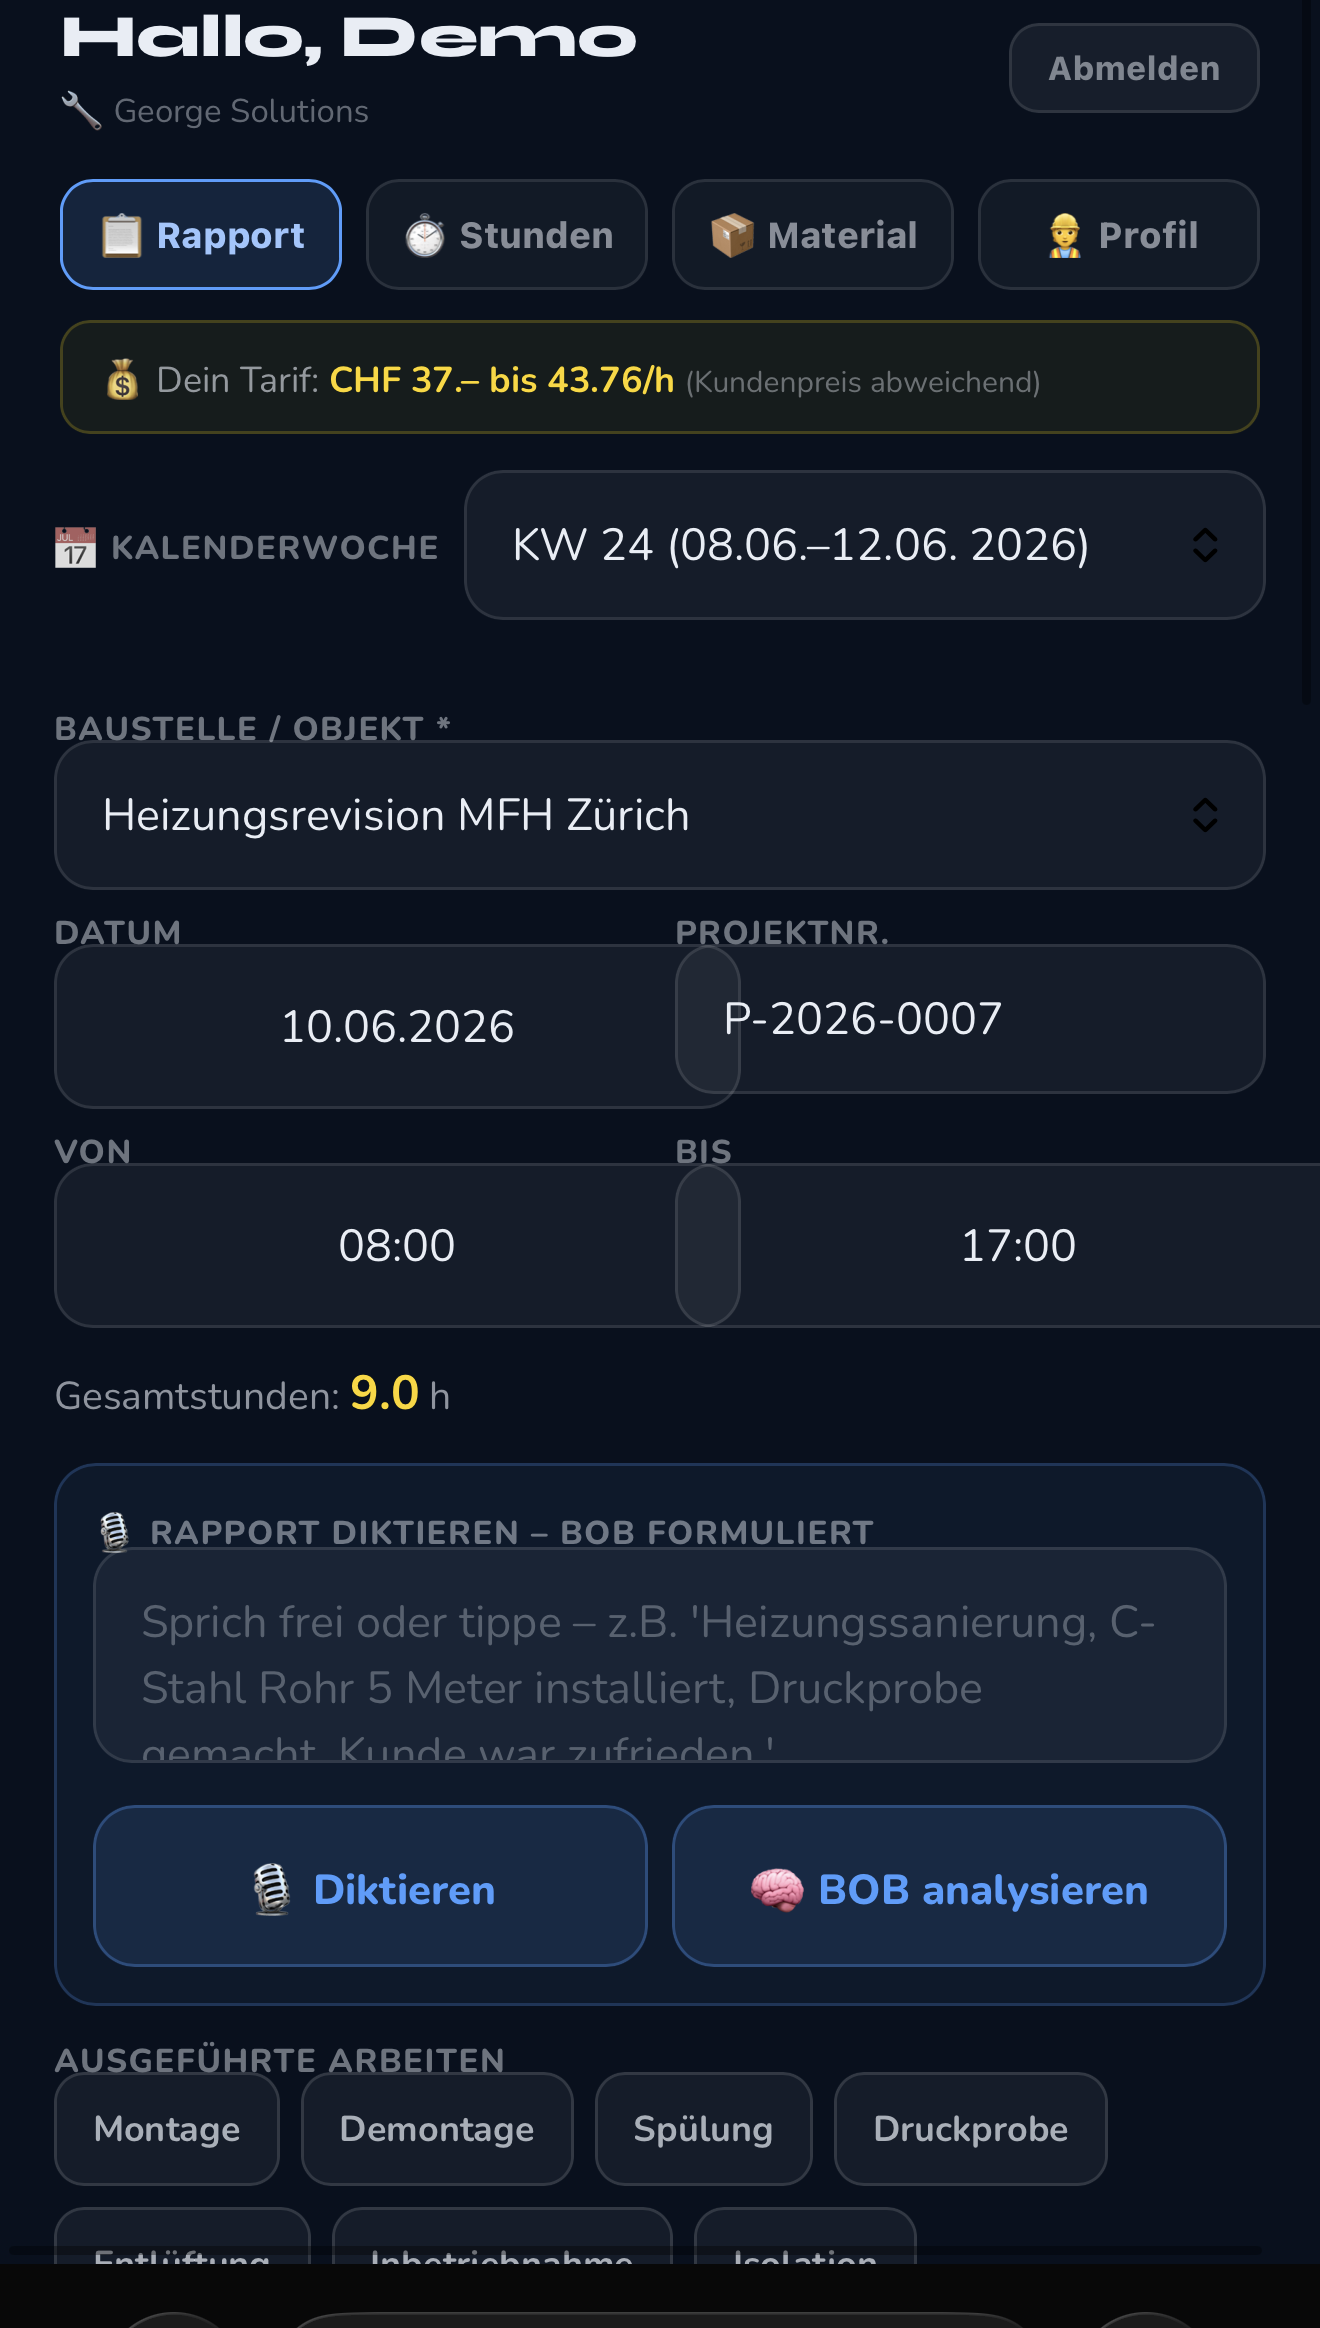
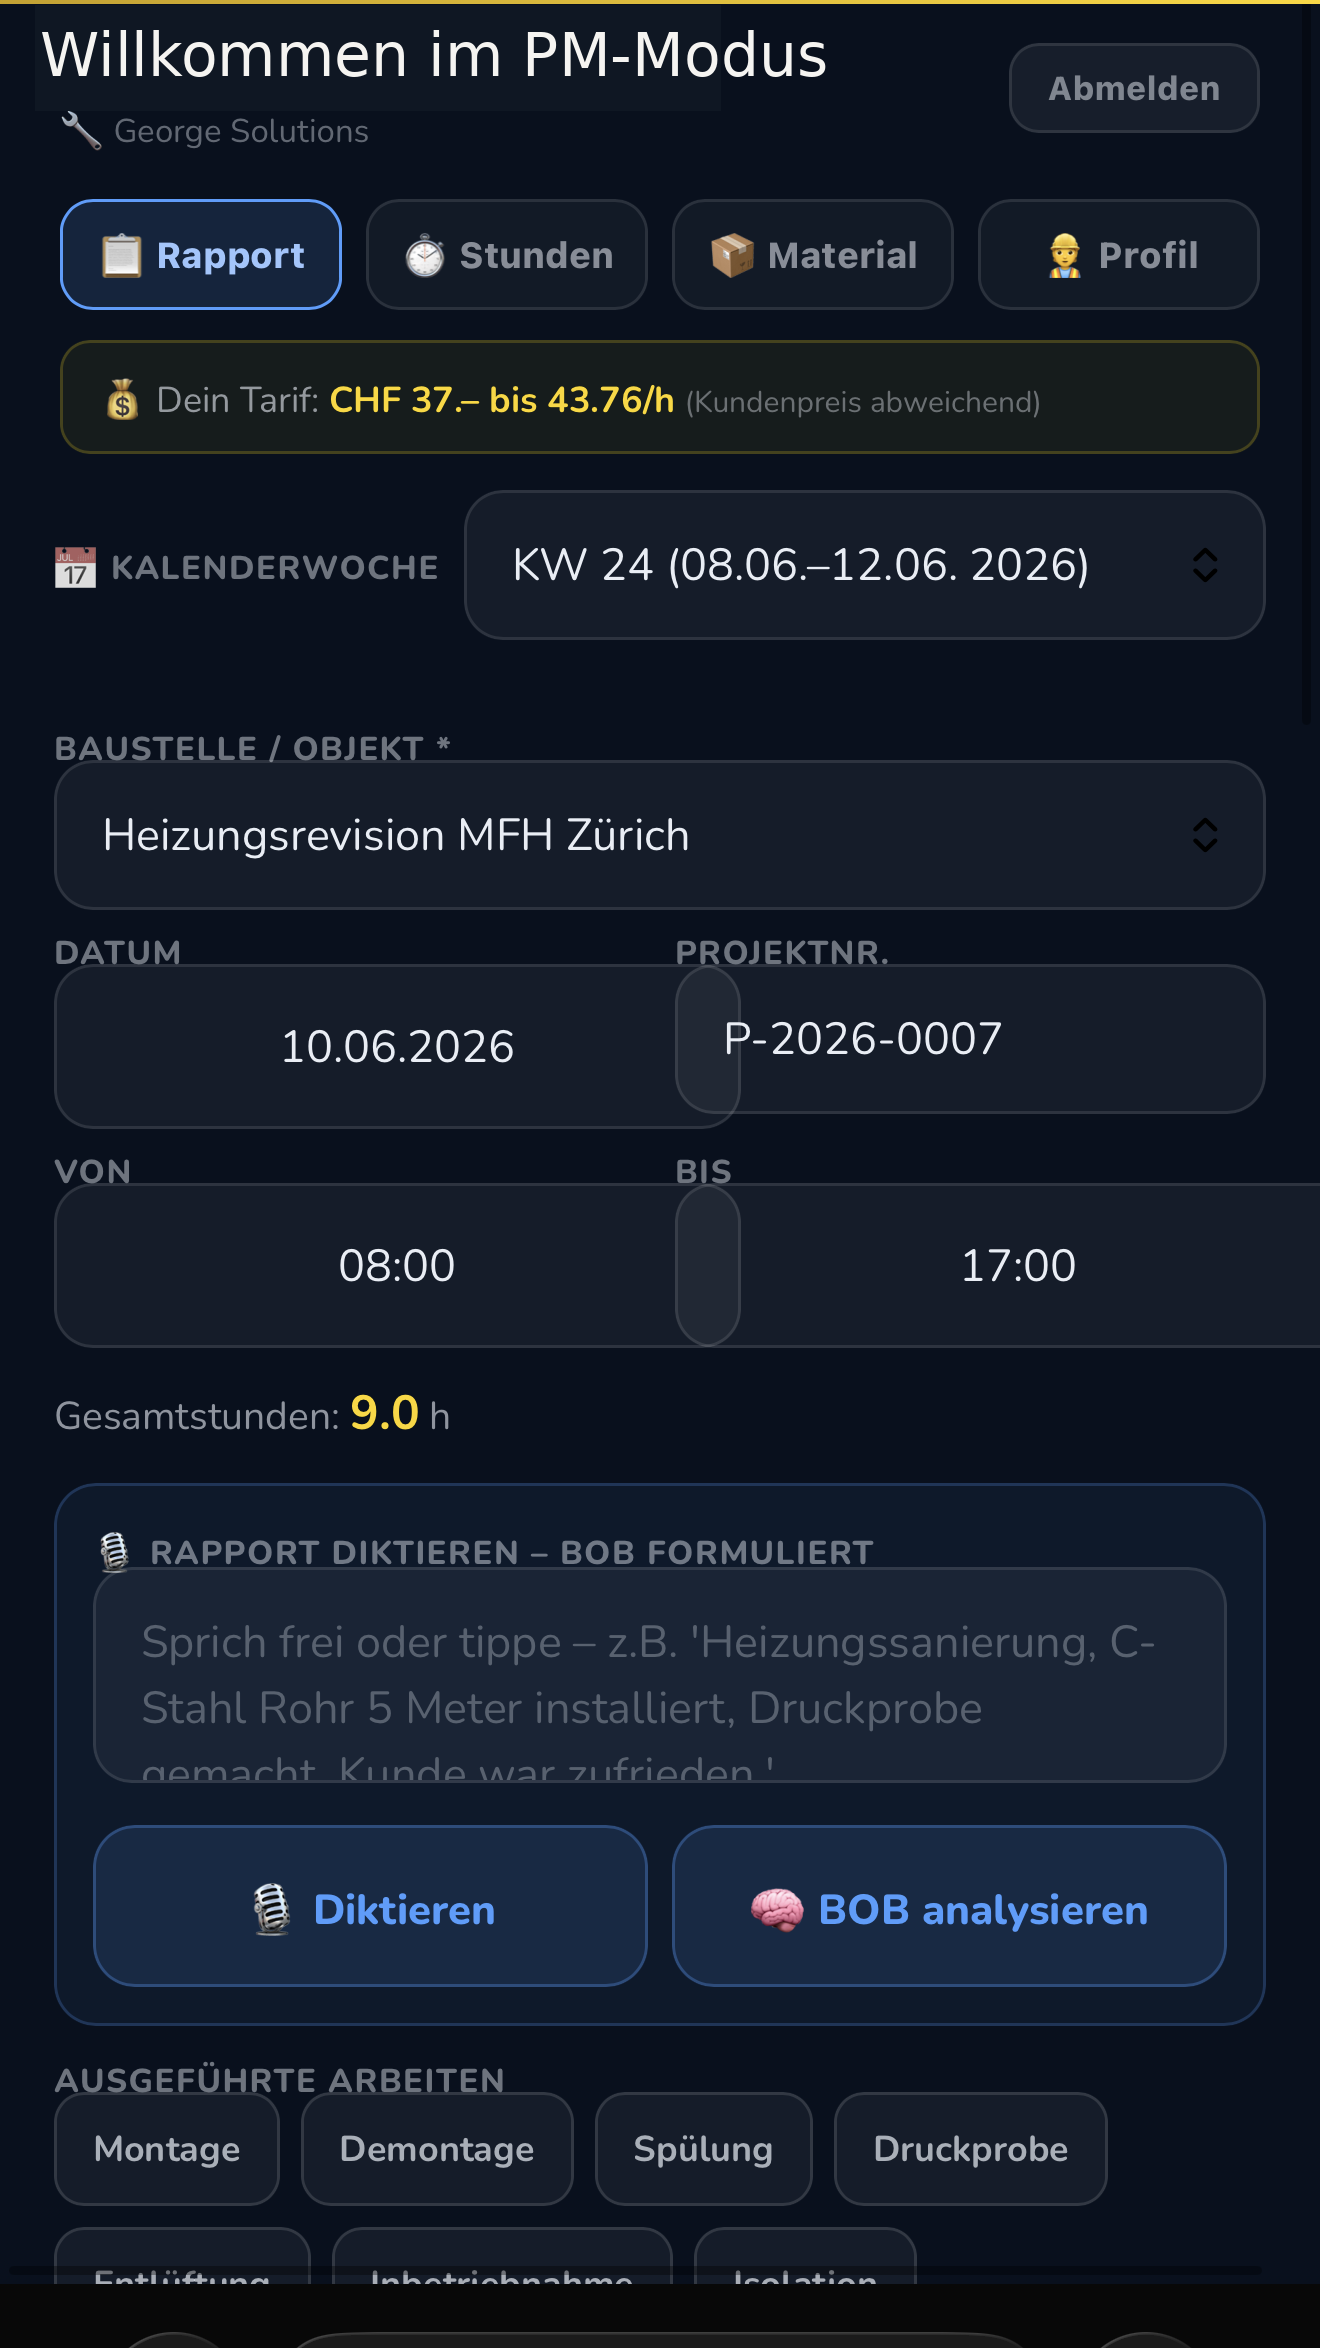
NACHT-LP: Dashboard-Bild auf PM-Modus aktualisiert + Skyline dezent sichtbar
1) public/gs-dashboard.png ersetzt durch neue Version ("Willkommen im PM-Modus"
   statt "Hallo, Demo"); 255'469 Bytes, 1320×2348.
2) Skyline-Backdrop besser sichtbar austariert: brightness .52→.66, opacity
   .72→.85, dunkles Overlay transparenter (.28/.68 → .14/.5), blur 2→1.6px,
   weniger grayscale. Stadt-Silhouette + Lichter jetzt erkennbar, Geräte + Text
   bleiben klar im Vordergrund; weicher Fade zu Schwarz an den Rändern bleibt.

diff --git a/landing.html b/landing.html
@@ -65,8 +65,8 @@ header.scrolled{border-bottom-color:var(--gs-border);background:rgba(10,10,11,0.
 .hero .trust b{color:var(--gs-text);font-weight:600;}
 .hero-img-wrap{position:relative;perspective:1100px;}
 /* Skyline-Backdrop hinter dem Mockup — dunkel, weich, mit Fade zu Schwarz */
-.hero-skyline{position:absolute;inset:-16% -10% -8% -8%;z-index:0;pointer-events:none;background:url(/public/skyline.jpg) center 72%/cover no-repeat;filter:blur(2px) grayscale(0.5) brightness(0.52) contrast(1.06) saturate(0.78);transform:scale(1.06);will-change:transform;-webkit-mask-image:radial-gradient(130% 120% at 56% 44%,#000 32%,transparent 76%);mask-image:radial-gradient(130% 120% at 56% 44%,#000 32%,transparent 76%);opacity:.72;}
-.hero-skyline::after{content:'';position:absolute;inset:0;background:linear-gradient(180deg,rgba(10,10,11,0.28),rgba(10,10,11,0.68));}
+.hero-skyline{position:absolute;inset:-16% -10% -8% -8%;z-index:0;pointer-events:none;background:url(/public/skyline.jpg) center 72%/cover no-repeat;filter:blur(1.6px) grayscale(0.42) brightness(0.66) contrast(1.06) saturate(0.85);transform:scale(1.06);will-change:transform;-webkit-mask-image:radial-gradient(132% 122% at 56% 44%,#000 36%,transparent 78%);mask-image:radial-gradient(132% 122% at 56% 44%,#000 36%,transparent 78%);opacity:.85;}
+.hero-skyline::after{content:'';position:absolute;inset:0;background:linear-gradient(180deg,rgba(10,10,11,0.14),rgba(10,10,11,0.5));}
 /* Geräte-Mockup: Laptop (gross, hinten) + Handy (klein, vorn rechts) */
 .device-scene{position:relative;z-index:2;transform-style:preserve-3d;transition:transform .25s ease;will-change:transform;padding:8px 6px 20px;}
 .device-laptop{position:relative;width:88%;margin:0 auto;z-index:1;animation:floatLaptop 6.5s ease-in-out infinite;will-change:transform;}